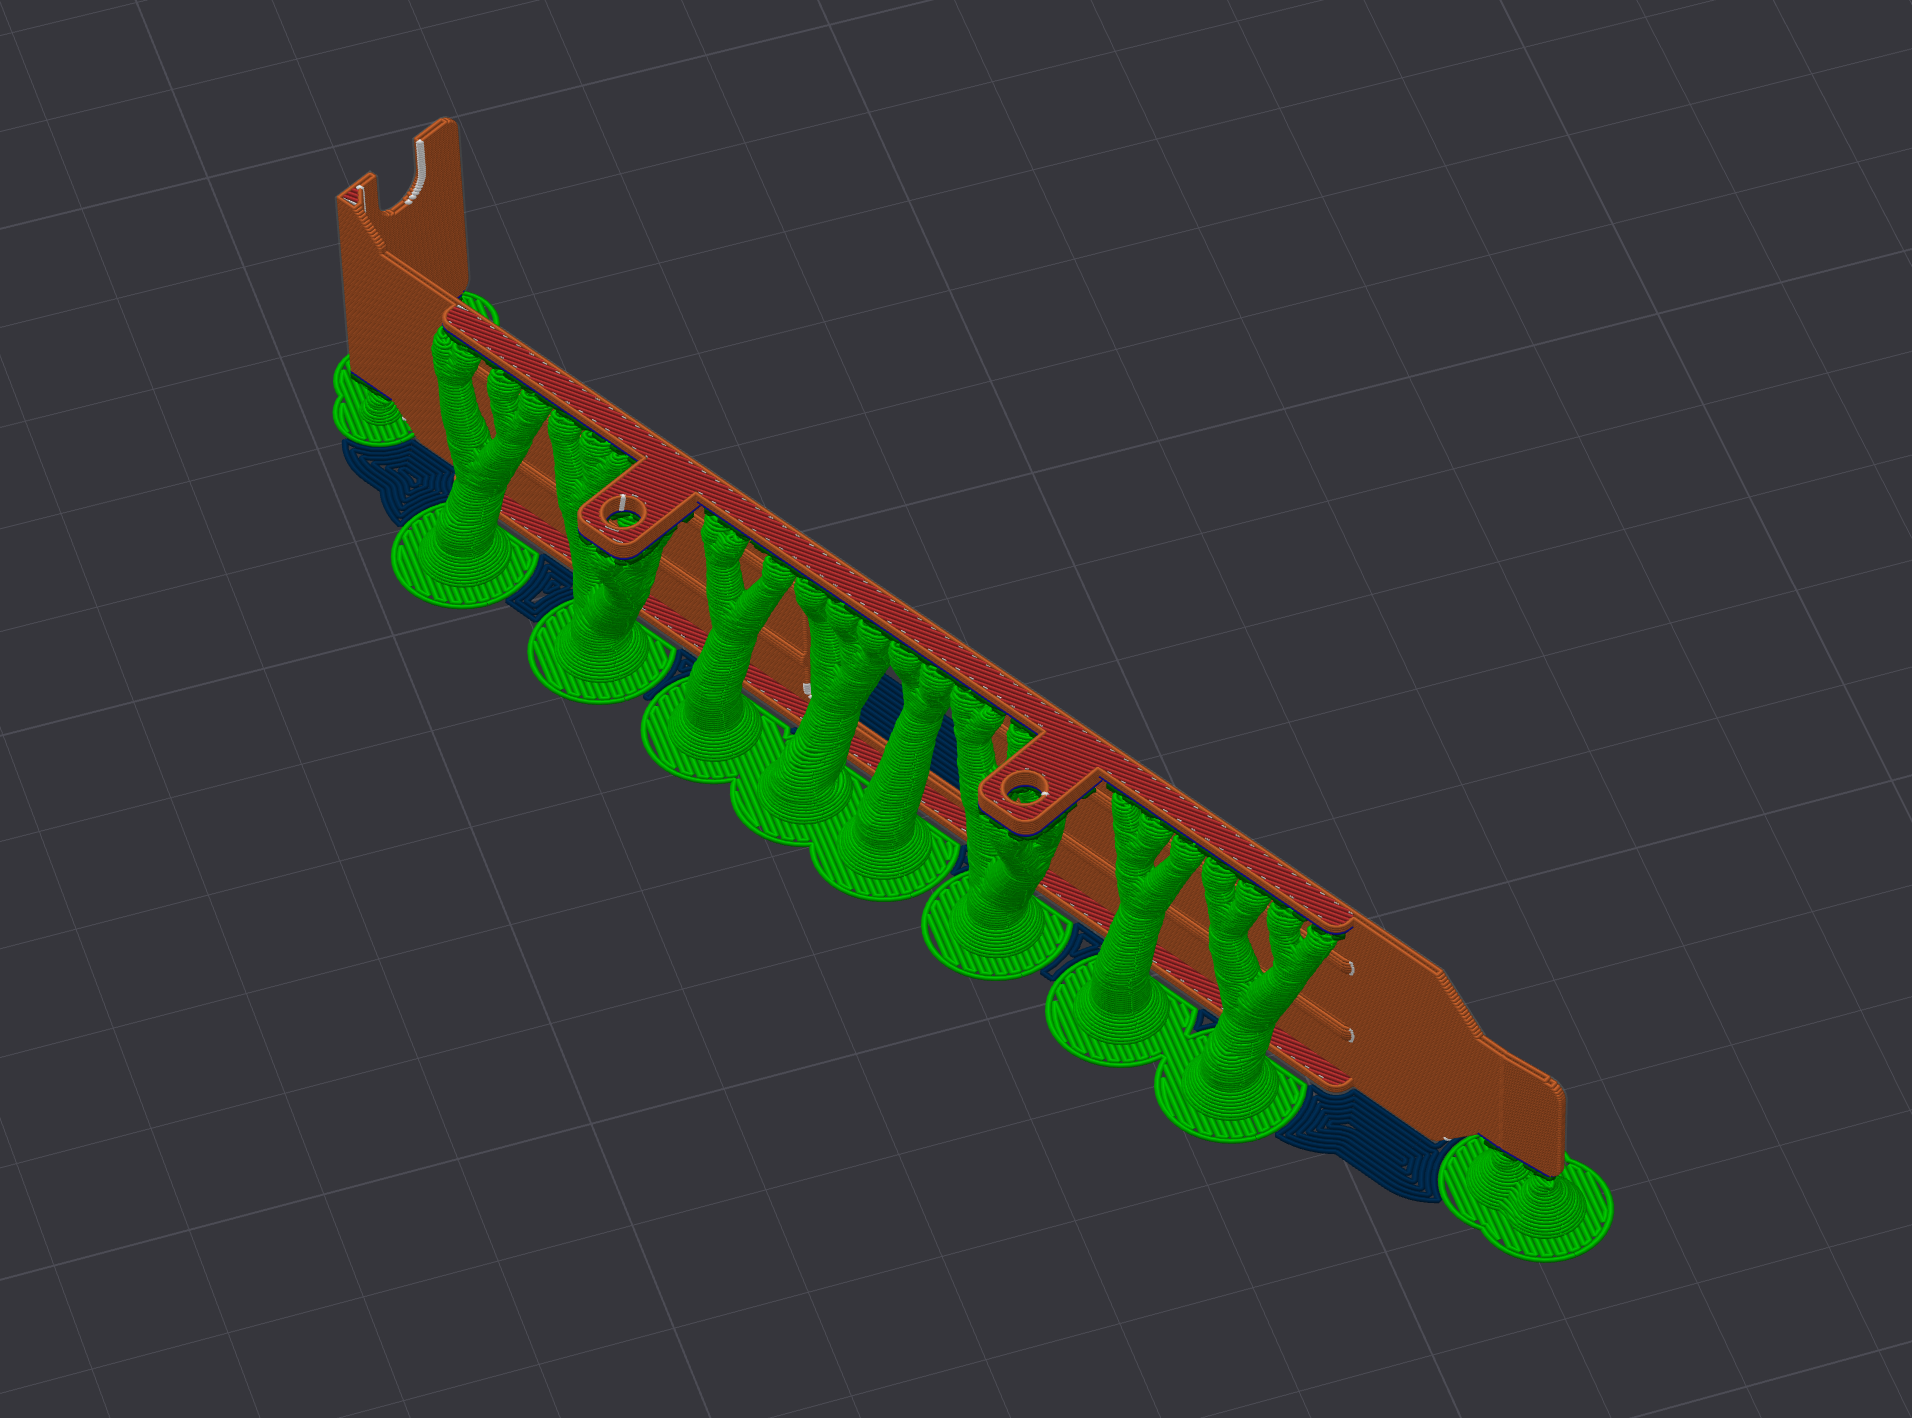
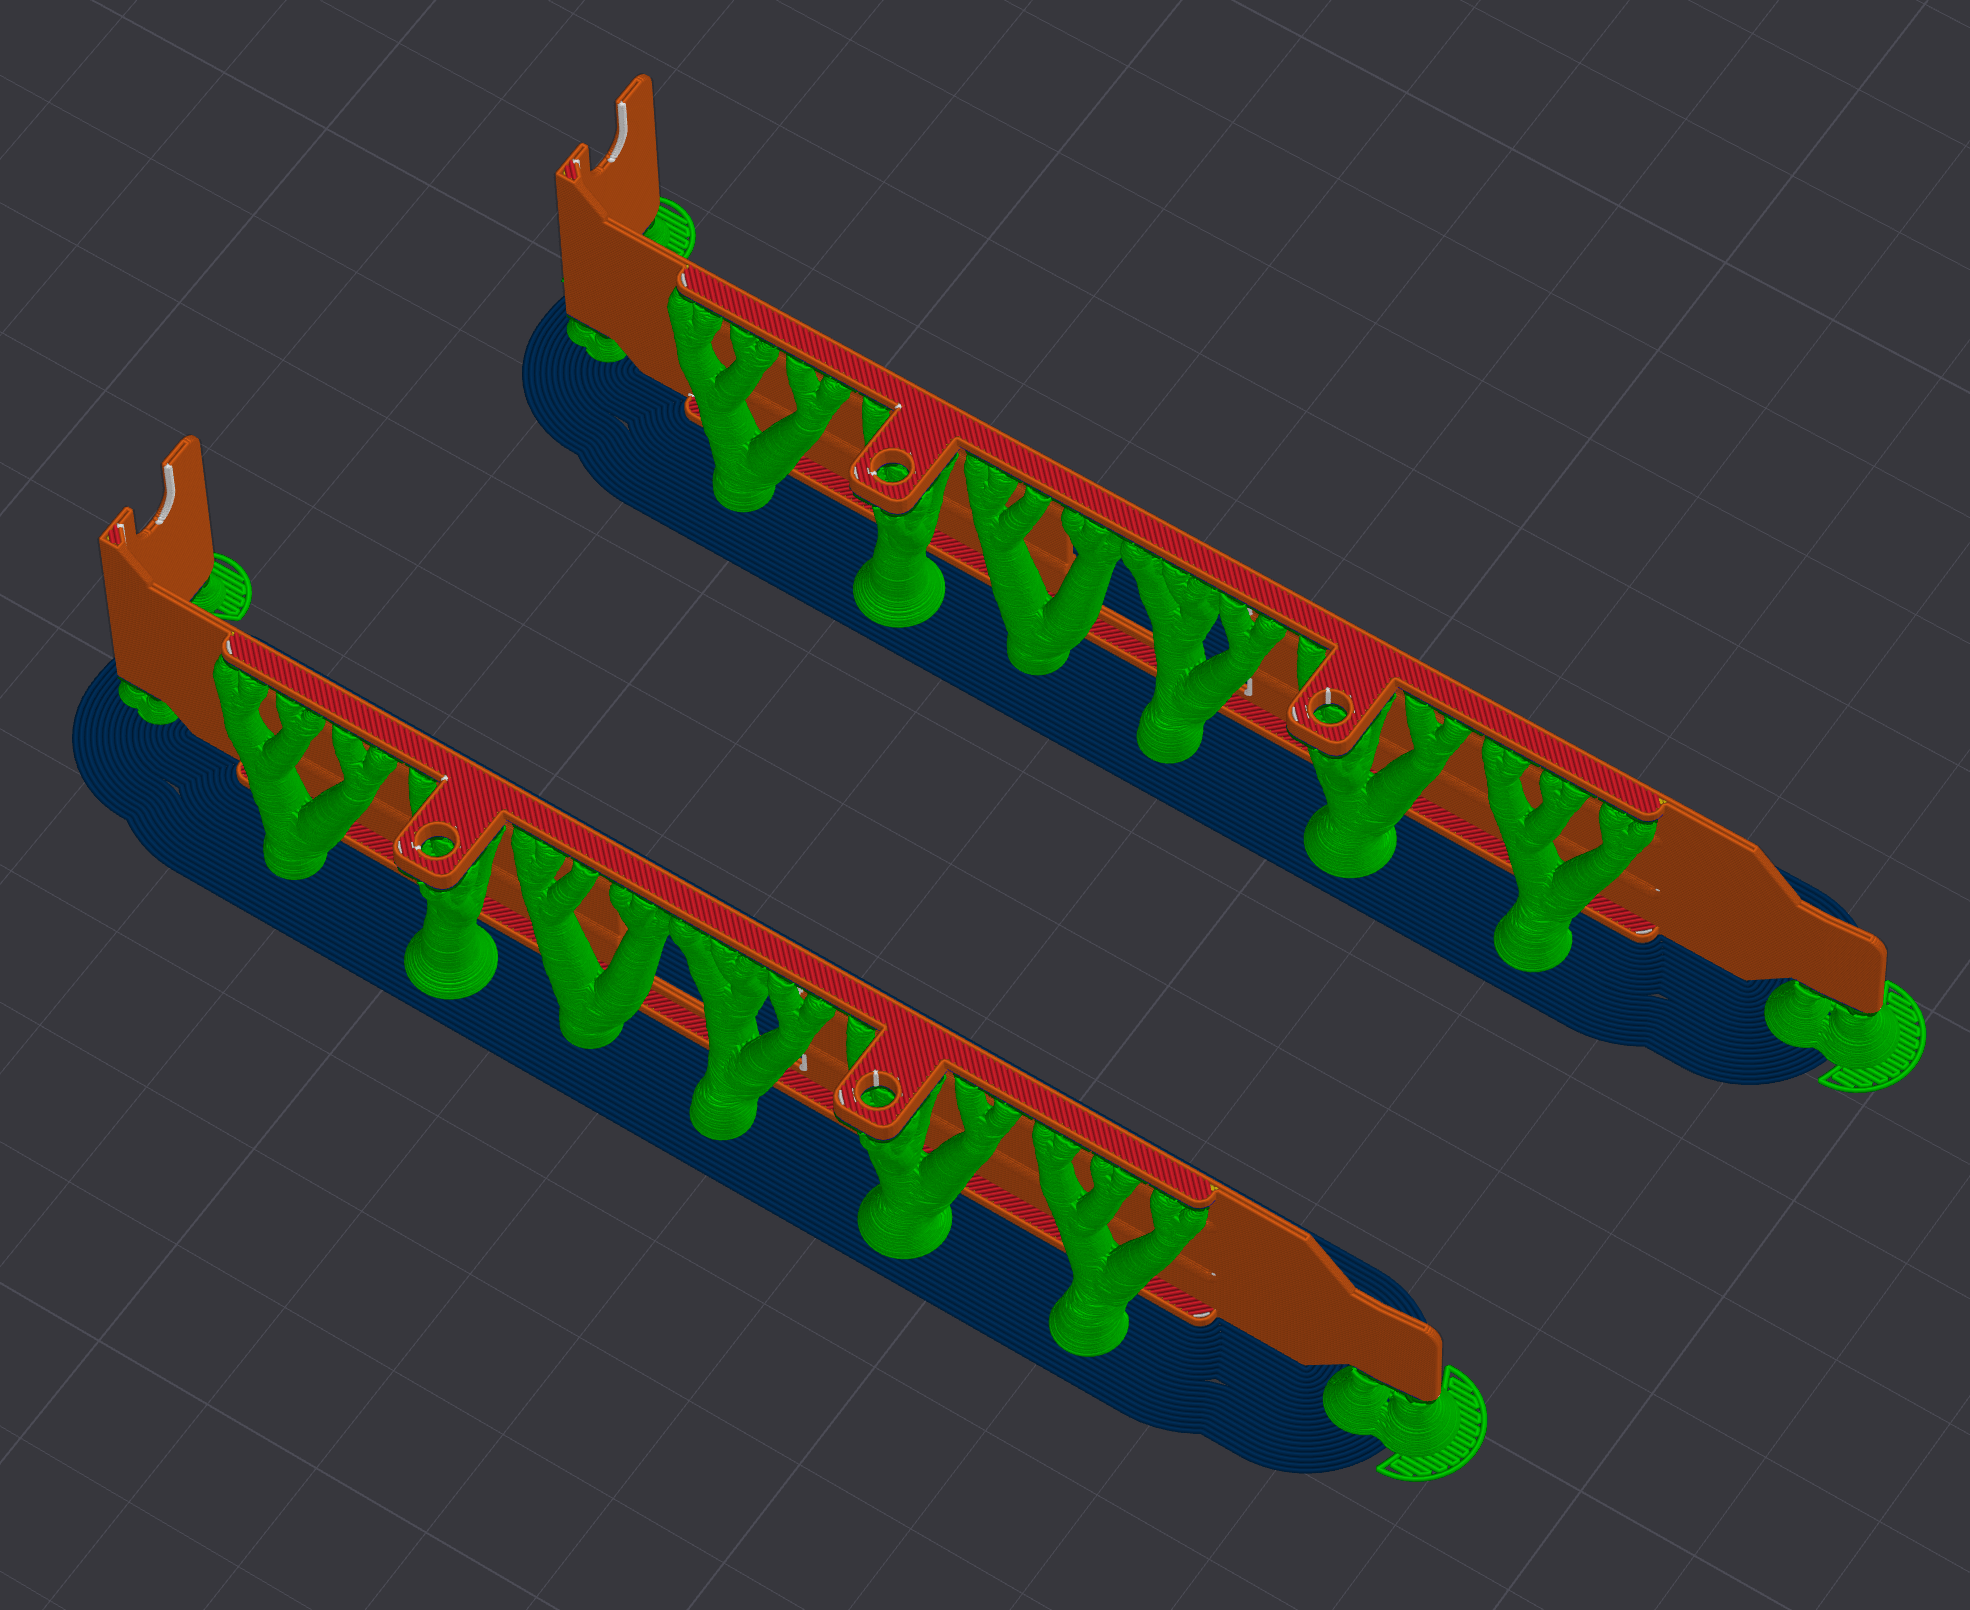
update slicing example for ATX bracket (PC side)

diff --git a/ATX_PCI_bracket/README.md b/ATX_PCI_bracket/README.md
@@ -2,7 +2,7 @@
 
 TODO: add link to the PCB
 
-
+Recommended material: PA6-CF
 
 Important: slice model so major axis will be along the layer direction.
 
